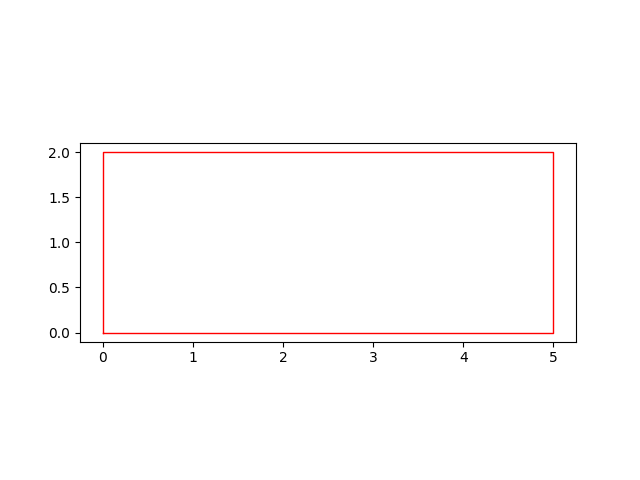
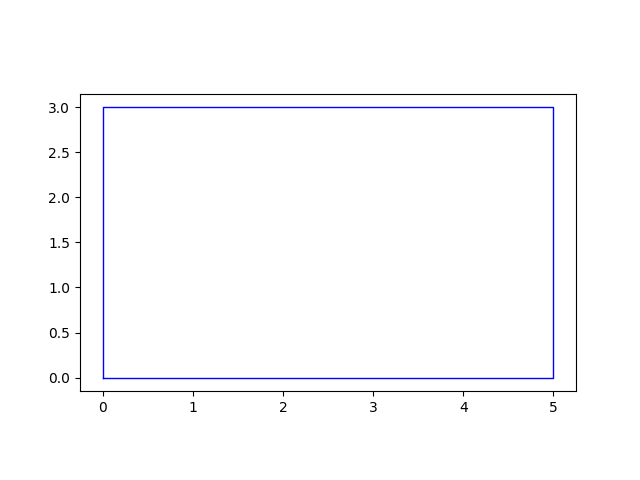
completed assignment 18

diff --git a/completed_assignment_18/approximations_of_randomness.py b/completed_assignment_18/approximations_of_randomness.py
@@ -1,0 +1,82 @@
+import math
+
+def finding_probality_for_x_heads(trials):
+  had_x_heads = []
+  for heads in range(len(trials[0])+1):
+    had_x_heads.append(0)
+    
+    for results in trials:
+      num_heads = 0
+      
+      for char in results:
+        if char == 'H':
+          num_heads += 1
+      
+      if num_heads == heads:
+        had_x_heads[heads] += 1
+    had_x_heads[heads] = had_x_heads[heads] / len(trials)
+  
+  return had_x_heads
+
+def kl_divergence(p, q):
+  divergence = 0
+  for index in range(len(p)):
+    if (p[index] != 0) and (q[index] != 0) :
+      divergence += p[index] * math.log((p[index] / q[index])) / math.log(2.718281828459045)
+  divergence = round(divergence * (10**11)) / 10**11
+  return divergence
+
+def card_sort(num_list):
+  sorted_list = []
+  for num in num_list:
+    if len(sorted_list) == 0:
+      sorted_list.append(num)
+    else:
+      for index in range(len(sorted_list)):
+        if num <= sorted_list[index]:
+          sorted_list.insert(index, num)
+          break
+        if index + 1 == len(sorted_list):
+          sorted_list.append(num)
+          break
+  return sorted_list
+
+
+def approximations_of_randomness(flips):
+  flips_values = []
+  name_order = []
+  for key in flips:
+    flips_values.append(flips[key])
+    name_order.append(key)
+
+  splits = []
+  for index in range(len(flips_values)):
+    splits.append(flips_values[index].split())
+
+  probabilities = []
+  for index in range(len(flips_values)):
+    probabilities.append(finding_probality_for_x_heads(splits[index]))
+
+  divergence = []
+  for index in range(len(flips_values)):
+    divergence.append(kl_divergence(probabilities[index], [.0625, .25, .375, .25, .0625]))
+  
+  sorted_list = card_sort(divergence)
+  return sorted_list
+  
+
+
+flips = {
+    'Justin S': 'HTTH HHTT TTHH TTTH HHTH TTHT HHHH THHT THTT HTHH TTTT HTHT TTHH THTH HTTH HHTH HHHT TTTH HTTH HTHT',
+    'Nathan R': 'HTTH HHTH HTTT HTHH HTTH HHHH TTHH TTHT THTT HTHT HHTH TTTT THHT HTTH HTHH THHH HTTH THTT HHHT HTHH',
+    'Justin H': 'HHHT HHTH HHTT THHT HTTT HTTT HHHT HTTT TTTT HTHT THHH TTHT TTHH HTHT TTTT HHHH THHH THTH HHHH THHT',
+    'Nathan A': 'HTTH HHHH THHH TTTH HTTT THTT HTHT THHT HTTH TTTT HHHH TTHH HHTH TTTH HHHH THTT HTHT TTTT HHTT HHTT',
+    'Cayden': 'HTHT HHTT HTTH THTH THHT TTHH HHHH TTTH HHHT HTTT TTHT HHTH HTHH THTT HHHH THTT HTTT HTHH TTTT HTTH',
+    'Maia': 'HTHH THTH HTTH TTTT TTHT HHHH HHTT THHH TTHH HHTH THHT HHHH THTT HHTH HTHT TTHH TTHH HHHH TTTT HHHT',
+    'Spencer': 'HHHT HTTH HTTT HTHH THTT TTHT TTTT HTTH HHTH TTHT TTHH HTHT THHT TTHT THTT THTH HTTH THHT TTTH HHHH',
+    'Charlie': 'HHHH HHHT HHTT HTTT TTTT TTTH TTHH THHH THTH HTHT HHTH HTHH TTHT THTT THTH TTHT HTHT THHT HTTH THTH',
+    'Anton': 'HHTH THTH TTTT HTTH THTT TTTH THHH TTHH THHT HHHH TTHT HTTT THTH HHHT HHTH HHHH TTTH HTHT TTTT HHTT',
+    'William': 'THTT HHHT HTTH THHT THTH HHHT TTTH HHTH THTH HTHT HHHT TTHT HHHT THTT HHTT TTHH HHTH TTTT THTH TTHT'
+}
+
+print(approximations_of_randomness(flips))

diff --git a/completed_assignment_13/detecting_biased_coins.py b/completed_assignment_13/detecting_biased_coins.py
@@ -1,0 +1,47 @@
+import matplotlib.pyplot as plt
+plt.style.use('bmh')
+
+def finding_probality_for_x_heads(trials):
+  had_x_heads = []
+  for heads in range(len(trials[0])+1):
+    had_x_heads.append(0)
+    
+    for results in trials:
+      num_heads = 0
+      
+      for char in results:
+        if char == 'H':
+          num_heads += 1
+      
+      if num_heads == heads:
+        had_x_heads[heads] += 1
+    had_x_heads[heads] = had_x_heads[heads] / len(trials)
+  
+  return had_x_heads
+
+coin_1 = ['TTH', 'HHT', 'HTH', 'TTH', 'HTH',
+          'TTH', 'TTH', 'TTH', 'THT', 'TTH',
+          'HTH', 'HTH', 'TTT', 'HTH', 'HTH',
+          'TTH', 'HTH', 'TTT', 'TTT', 'TTT',
+          'HTT', 'THT', 'HHT', 'HTH', 'TTH']
+coin_2 = ['HTH', 'HTH', 'HTT', 'THH', 'HHH',
+          'THH', 'HHH', 'HHH', 'HTT', 'TTH',
+          'TTH', 'HHT', 'TTH', 'HTH', 'HHT',
+          'THT', 'THH', 'THT', 'TTH', 'TTT',
+          'HHT', 'THH', 'THT', 'THT', 'TTT']
+coin_3 = ['HHH', 'THT', 'HHT', 'HHT', 'HTH',
+          'HHT', 'HHT', 'HHH', 'TTT', 'THH',
+          'HHH', 'HHH', 'TTH', 'THH', 'THH',
+          'TTH', 'HTT', 'TTH', 'HTT', 'HHT',
+          'TTH', 'HTH', 'THT', 'THT', 'HTH']
+
+plt.plot([0,1,2,3],finding_probality_for_x_heads(coin_1), linewidth = 1)
+plt.plot([0,1,2,3],finding_probality_for_x_heads(coin_2), linewidth = 1)
+plt.plot([0,1,2,3],finding_probality_for_x_heads(coin_3), linewidth = 1)
+plt.legend(['Coin 1','Coin 2','coin 3'])
+plt.xlabel('Number of Heads')
+plt.ylabel('Probability')
+plt.title('Detecting Biased Coin')
+plt.savefig('Biased Coin.png')
+
+# coin 1 is slightly biased towards tails while coin three is slightly biased towards heads. Coin 2 is not biased.

diff --git a/completed_assignment_14/shapes.py b/completed_assignment_14/shapes.py
@@ -1,0 +1,59 @@
+import matplotlib.pyplot as plt
+
+class Shape():
+
+  def __init__(self, base, height, color):
+    self.base = base
+    self.height = height
+    self.color = color
+    self.perimeter = 0
+    self.area = 0
+    self.vertices = []
+    self.x_values = []
+    self.y_values = []
+    self.file_name = ''
+
+  def describe(self):
+    print('Base: ' + str(self.base))
+    print('Height: ' + str(self.height))
+    print('Color: ' + str(self.color))
+    print('Perimeter: ' + str(self.perimeter))
+    print('Area: ' + str(self.area))
+    print('Vertices: ' + str(self.vertices))
+
+  def render(self):
+    plt.clf()
+    plt.plot(self.x_values,self.y_values, color = self.color, linewidth = 1)
+    plt.gca().set_aspect("equal")
+    plt.savefig(self.file_name +'.png')
+
+
+class Rectangle(Shape):
+
+  def __init__(self, base, height, color):
+    super().__init__(base, height, color)
+    self.perimeter = 2 * base + 2 * height
+    self.area = base * height
+    self.vertices = [(0,0), (base,0), (base,height), (0,height)]
+    self.x_values = [0,base,base,0,0]
+    self.y_values = [0,0,height,height,0]
+    self.file_name = 'Rectangle'
+
+rect = Rectangle(5,3,'blue')
+rect.describe()
+rect.render()
+
+class RightTriangle(Shape):
+
+  def __init__(self, base, height, color):
+    super().__init__(base, height, color)
+    self.perimeter = base + height + (base ** 2 + height ** 2) ** .5
+    self.area = base * height / 2
+    self.vertices = [(0,0),(base,0), (0,height)]
+    self.x_values = [0,0,base,0]
+    self.y_values = [0,height,0,0]
+    self.file_name = 'RightTriangle'
+
+tri = RightTriangle(4,2,'red')
+tri.describe()
+tri.render()

diff --git a/completed_assignment_16/count_compression.py b/completed_assignment_16/count_compression.py
@@ -1,0 +1,47 @@
+def count_compression(string):
+  string += '~'
+  previous_letter = string[0]
+  compression_list = []
+  consecutive_letters = 0
+  for char in string:
+    if previous_letter == char:
+      consecutive_letters += 1
+    else:
+      compression_list.append((previous_letter, consecutive_letters))
+      consecutive_letters = 1
+    previous_letter = char
+  return compression_list
+
+print('Testing count_compression')
+print(count_compression('aaabbcaaaa'))
+assert count_compression('aaabbcaaaa') == [('a',3), ('b',2), ('c',1), ('a',4)]
+print('passed')
+
+print(count_compression('22344444'))
+assert count_compression('22344444') == [('2',2), ('3',1), ('4',5)]
+print('passed')
+    
+def count_decompression(compressed_string):
+  uncompressed_string = ''
+  alphabet = 'abcdefghijklmnopqrstuvwxyz'
+  for compressions in compressed_string:
+    values = []
+    for char in compressions:  
+      if isinstance(char, str) == True:
+        values.append(char)
+      if isinstance(char, int) == True:
+        values.append(char)
+    while values[1] >= 1:
+      uncompressed_string += values[0]
+      values[1] -= 1
+  return uncompressed_string
+
+print('Testing count_decompression')
+print(count_decompression([('a',3),('b',2),('c',1),('a',4)]))
+assert count_decompression([('a',3),('b',2),('c',1),('a',4)]) == 'aaabbcaaaa'
+print('passed')
+
+print(count_decompression([('2',2), ('3',1), ('4',5)]))
+assert count_decompression([('2',2), ('3',1), ('4',5)]) == '22344444'
+print('passed')
+

diff --git a/completed_assignment_13/shapes.py b/completed_assignment_13/shapes.py
@@ -1,0 +1,34 @@
+import matplotlib.pyplot as plt
+
+class Rectangle():
+
+  def __init__(self, base, height, color):
+    self.base = base
+    self.height = height
+    self.color = color
+    self.perimeter = 2 * base + 2 * height
+    self.area = base * height
+    self.vertices = [(0,0),(base,0),(base,height), (0,height)]
+  
+  def describe(self):
+    print('Base: ' + str(self.base))
+    print('Height: ' + str(self.height))
+    print('Color: ' + str(self.color))
+    print('Perimeter: ' + str(self.perimeter))
+    print('Area: ' + str(self.area))
+    print('Vertices: ' + str(self.vertices))
+
+  def render(self):
+    x_values = [0,self.base,self.base,0,0]
+    y_values = [0,0,self.height,self.height,0]
+    plt.plot(x_values,y_values, color = self.color, linewidth = 1)
+    plt.gca().set_aspect("equal")
+    plt.savefig('Rectangle.png')
+
+class Square(Rectangle):
+  def __init__(self, side, color):
+    super().__init__(side, side, color)
+
+sq = Square(5,'green')
+sq.describe()
+sq.render()

diff --git a/completed_assignment_17/zero_of_tangent_line.py b/completed_assignment_17/zero_of_tangent_line.py
@@ -1,0 +1,26 @@
+def zero_of_tangent_line(c):
+  f_c = (c**3) + (c - 1 )
+  slope = 3*(c**2) + 1
+  zero_of_tangent_line = ((-f_c) / slope) + c
+  return zero_of_tangent_line
+
+print('testing zero_of_tangent_line')
+answer = zero_of_tangent_line(0.5)
+print(round(answer,6))
+assert round(answer,6) == 0.714286
+print('passed')
+
+def estimate_solution(initial_guess, precision):
+  previous_guess = 0
+  guess = zero_of_tangent_line(initial_guess)
+  while abs(previous_guess - guess) > precision:
+    previous_guess = guess
+    guess = zero_of_tangent_line(previous_guess)
+
+  return guess
+
+print('testing estimate_solution')
+answer = estimate_solution(0.5, 0.01)
+print(round(answer, 6))
+assert round(answer,6) == 0.682328
+print('passed')

diff --git a/completed_assignment_16/nodes.py b/completed_assignment_16/nodes.py
@@ -1,0 +1,44 @@
+class Node():
+  def __init__(self, data):
+    self.data = data
+    self.next = next
+
+A = Node(4)
+print(A.data)
+print(A.next)
+
+B = Node(8)
+A.next = B
+print(A.next.data)
+
+class LinkedList():
+  
+  def __init__(self, head):
+    self.data = head
+    self.next = next
+    self.head = head
+    
+  def print_data(self):
+    print(self.data)
+
+  def length(self):
+    return len(self.data)
+  
+  def append(self, value):
+    self.next.data = value
+    self.next = value
+
+
+linked_list = LinkedList(4)
+print(linked_list.head.data)
+4
+linked_list.append(8)
+print(linked_list.head.next.data)
+8
+linked_list.append(9)
+print(linked_list.print_data())
+4
+8
+9
+print(linked_list.length())
+3

diff --git a/completed_assignment_14/card_sort.py b/completed_assignment_14/card_sort.py
@@ -1,0 +1,22 @@
+def card_sort(num_list):
+  sorted_list = []
+  for num in num_list:
+    if len(sorted_list) == 0:
+      sorted_list.append(num)
+    else:
+      for index in range(len(sorted_list)):
+        if num <= sorted_list[index]:
+          sorted_list.insert(index, num)
+          break
+        if index + 1 == len(sorted_list):
+          sorted_list.append(num)
+          break
+  return sorted_list
+
+print(card_sort([12, 11, 13, 5, 6]))
+assert card_sort([12, 11, 13, 5, 6]) == [5, 6, 11, 12, 13]
+print('passed')
+
+print(card_sort([5, 7, 3, 5, 1, 3, -1, 1, -3, -1, -3, -1]))
+assert card_sort([5, 7, 3, 5, 1, 3, -1, 1, -3, -1, -3, -1]) == [-3, -3, -1, -1, -1, 1, 1, 3, 3, 5, 5, 7]
+print('Passed')
